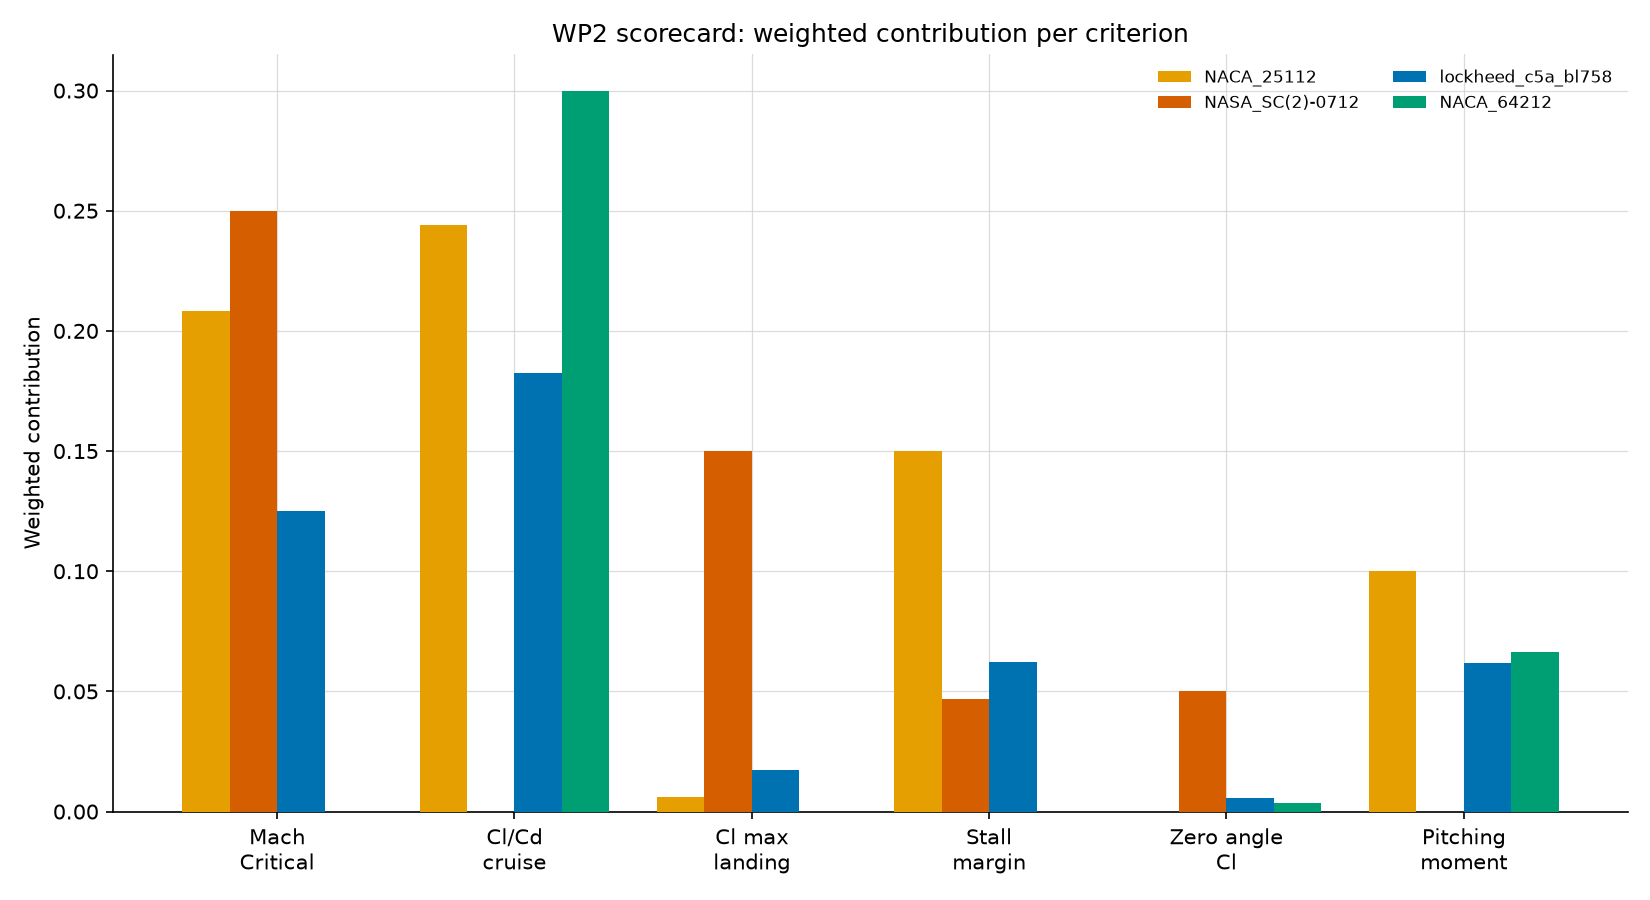
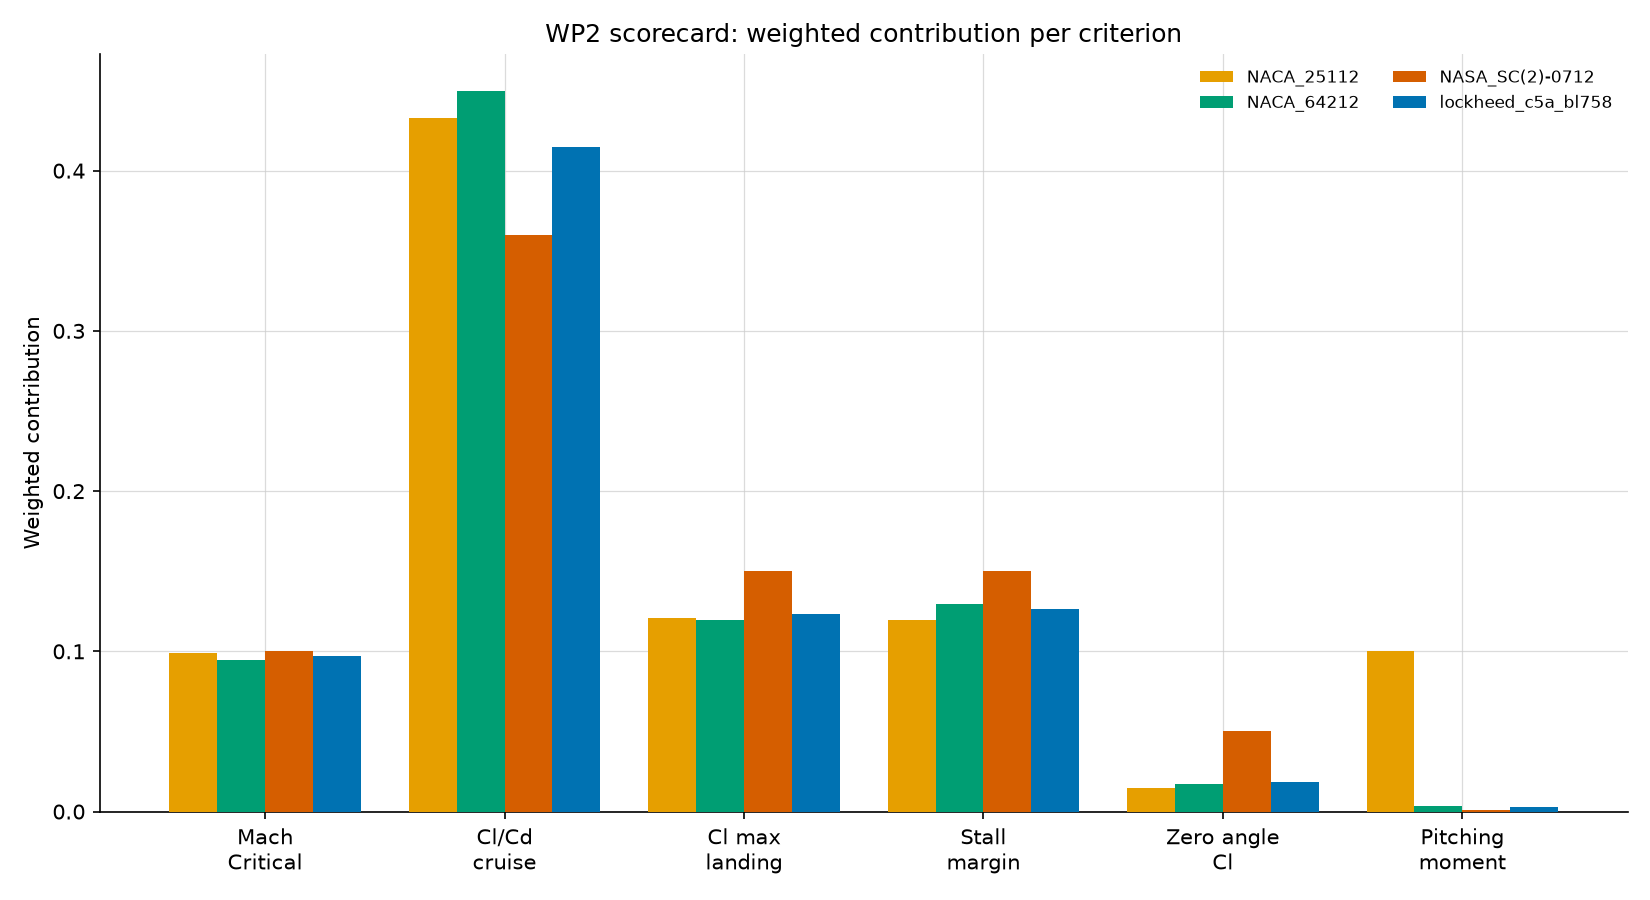
wp2: match the scorecard to the trade-off table's weights and formulas
Three changes, all to bring the generated scorecard in line with the WP2
trade-off sheet:

- Weights: mach_critical 0.25 -> 0.10, cl_cd_cruise 0.30 -> 0.45. The other
  four are unchanged; the set still sums to 1.0.

- Normalization: ratio-to-best (x / max(x)) instead of min-max, which is the
  sheet's =J19/MAX(J19:M19) form. Pitching moment is scored on the
  reciprocal, (1/|Cm|) / max(1/|Cm|), matching J20 = 1/ABS(J18) followed by
  J9 = J20/MAX(J20:M20). Ratio-to-best keeps each candidate's proportional
  distance from the best one, so a criterion on which all four are nearly
  equal contributes nearly equally rather than being stretched over 0-1.

- Stall margin: now the angle for Cl_max from the landing polar minus the
  cruise angle of attack (sheet row 17 = row 16 - row 13), where before it
  used the cruise polar's own stall angle. The two angles come from
  different polars, so it is a mission-level margin; noted as such in the
  code.

Regenerated results/scorecard/ and the two comparison figures. Ranking:
NACA 25112 0.8871, NACA 64212 0.8141, NASA SC(2)-0712 0.8108, Lockheed C5A
BL758 0.7833.

Two mismatches against the sheet were left as computed rather than forced:
M_crit for NACA 25112 comes out 0.550 here against 0.54 in the sheet (the
other three agree exactly), and the sheet's total row is self-consistent
only for its first column -- recomputing SUMPRODUCT over its own rows 4-9
reproduces 0.810802 for NASA but not the other three totals.

diff --git a/wp2/src/b12wp2/config/scoring.py b/wp2/src/b12wp2/config/scoring.py
@@ -46,12 +46,12 @@ def kappa_a(airfoil_stem: str) -> float:
 # --- WP2 scoring matrix (selection criteria and their weights) ---
 
 SCORING_WEIGHTS: dict[str, float] = {
-    "mach_critical": 0.25,
-    "cl_cd_cruise": 0.30,
+    "mach_critical": 0.10,
+    "cl_cd_cruise": 0.45,
     "cl_max_landing": 0.15,
-    "stall_margin": 0.15,  # stall angle minus cruise angle; raised from 0.125
+    "stall_margin": 0.15,  # angle for Cl_max (landing) minus the cruise angle
     "cl_zero_angle": 0.05,
-    "pitching_moment": 0.10,  # lowered from 0.125
+    "pitching_moment": 0.10,
 }
 
 if abs(sum(SCORING_WEIGHTS.values()) - 1.0) > 1e-9:
@@ -59,13 +59,33 @@ if abs(sum(SCORING_WEIGHTS.values()) - 1.0) > 1e-9:
         f"SCORING_WEIGHTS must sum to 1.0, got {sum(SCORING_WEIGHTS.values())}"
     )
 
-# Direction each raw criterion is scored in. "max" = higher raw value is
-# better (normalize ascending). "min_abs" = smaller |value| is better
-# (normalize the absolute value, then invert): pitching_moment is
-# smaller-|Cm|-is-better (standard trim-drag rationale), cl_zero_angle is
-# higher-is-better. The other four criteria (mach_critical, cl_cd_cruise,
-# cl_max_landing, stall_margin) are unambiguously higher-is-better on
-# their own terms.
+# How each raw criterion is turned into a 0-1 score across the candidate set.
+#
+#   "max"      score_i = x_i / max_j(x_j)          -- higher raw value is better
+#   "min_abs"  score_i = (1/|x_i|) / max_j(1/|x_j|)  = min_j(|x_j|) / |x_i|
+#                                                   -- smaller |value| is better
+#
+# This is ratio-to-best normalization, not min-max: the best candidate scores
+# 1.0 and the others keep their *proportional* distance from it, so a
+# criterion on which all four candidates are nearly equal contributes nearly
+# equally instead of being stretched to span the full 0-1 range the way
+# min-max does. It matches the trade-off table this scorecard reproduces,
+# where (spreadsheet column J, rows as in the source sheet)
+#
+#   J4 = J19/MAX(J19:M19)   Mach critical
+#   J5 = J12/MAX(J12:M12)   Cl/Cd cruise
+#   J6 = J15/MAX(J15:M15)   Cl_max landing
+#   J7 = J17/MAX(J17:M17)   stall margin, J17 = J16 - J13
+#   J8 = J14/MAX(J14:M14)   zero-angle Cl
+#   J9 = J20/MAX(J20:M20)   pitching moment, J20 = 1/ABS(J18)
+#
+# pitching_moment is scored on the reciprocal 1/|Cm| rather than on |Cm|
+# directly: it is smaller-|Cm|-is-better (trim drag), and dividing by the
+# best 1/|Cm| is the ratio-to-best form of that. It is a strongly nonlinear
+# map -- a near-zero |Cm| (NACA 25112, Cm ~ +0.002) makes 1/|Cm| enormous and
+# collapses every other candidate's score towards zero. That is a property of
+# the chosen formula, not an artefact, and it is why this criterion carries
+# only 0.10.
 CRITERION_DIRECTION: dict[str, str] = {
     "mach_critical": "max",
     "cl_cd_cruise": "max",

diff --git a/wp2/src/b12wp2/scoring/scorecard.py b/wp2/src/b12wp2/scoring/scorecard.py
@@ -4,8 +4,9 @@
 """The weighted WP2 scorecard, built from the CSVs the earlier stages wrote.
 
 Reads every airfoil's cruise polar, landing polar and mcrit summary row,
-extracts the six scoring criteria, normalizes each 0-1 across the candidate
-set and applies config.scoring.SCORING_WEIGHTS. Two tables come out:
+extracts the six scoring criteria, normalizes each one ratio-to-best across
+the candidate set (x/max(x), or 1/|x| over its max for pitching moment) and
+applies config.scoring.SCORING_WEIGHTS. Two tables come out:
 
 - the detail table: one row per airfoil with the raw, normalized and
   weighted value of every criterion, the context quantities behind them, and
@@ -62,7 +63,13 @@ def _load_raw_metrics(airfoil_stem: str) -> dict[str, float | str]:
         "mach_critical": m_crit,
         "cl_cd_cruise": cl_n / cruise_op["cd"],
         "cl_max_landing": landing_cl_max,
-        "stall_margin": cruise_stall_alpha - cruise_op["alpha"],
+        # Angle for Cl_max (landing polar) minus the cruise angle of attack.
+        # The two come from different polars -- landing Re/M for the stall
+        # angle, cruise Re/M for the operating angle -- so this is a
+        # mission-level "how much alpha is left before the wing stalls on
+        # approach", not a single-condition margin. It is the definition the
+        # WP2 trade-off table uses (sheet row 17 = row 16 - row 13).
+        "stall_margin": landing_stall_alpha - cruise_op["alpha"],
         "cl_zero_angle": cl_zero,
         "pitching_moment": cruise_op["cm"],
         # context, not scored directly
@@ -78,15 +85,23 @@ def _load_raw_metrics(airfoil_stem: str) -> dict[str, float | str]:
 
 
 def _normalize(values: pd.Series, direction: str) -> pd.Series:
-    """Min-max normalize to [0, 1] across the candidate set."""
-    raw = values.abs() if direction == "min_abs" else values
-    lo, hi = raw.min(), raw.max()
-    if hi == lo:
-        return pd.Series(1.0, index=values.index)
-    norm = (raw - lo) / (hi - lo)
-    if direction == "min_abs":
-        norm = 1.0 - norm
-    return norm
+    """Ratio-to-best normalization onto (0, 1] across the candidate set.
+
+    "max"      -> x_i / max_j(x_j)
+    "min_abs"  -> (1/|x_i|) / max_j(1/|x_j|), i.e. min_j(|x_j|) / |x_i|
+
+    The best candidate scores exactly 1.0 and the rest keep their
+    proportional distance from it; see config/scoring.py's
+    CRITERION_DIRECTION for why this and not min-max.
+    """
+    raw = 1.0 / values.abs() if direction == "min_abs" else values
+    hi = raw.max()
+    if hi <= 0:
+        raise ValueError(
+            f"cannot ratio-normalize a criterion whose best value is {hi}: "
+            "x/max(x) is only meaningful for a positive-valued criterion"
+        )
+    return raw / hi
 
 
 def build_detail_table() -> pd.DataFrame:
